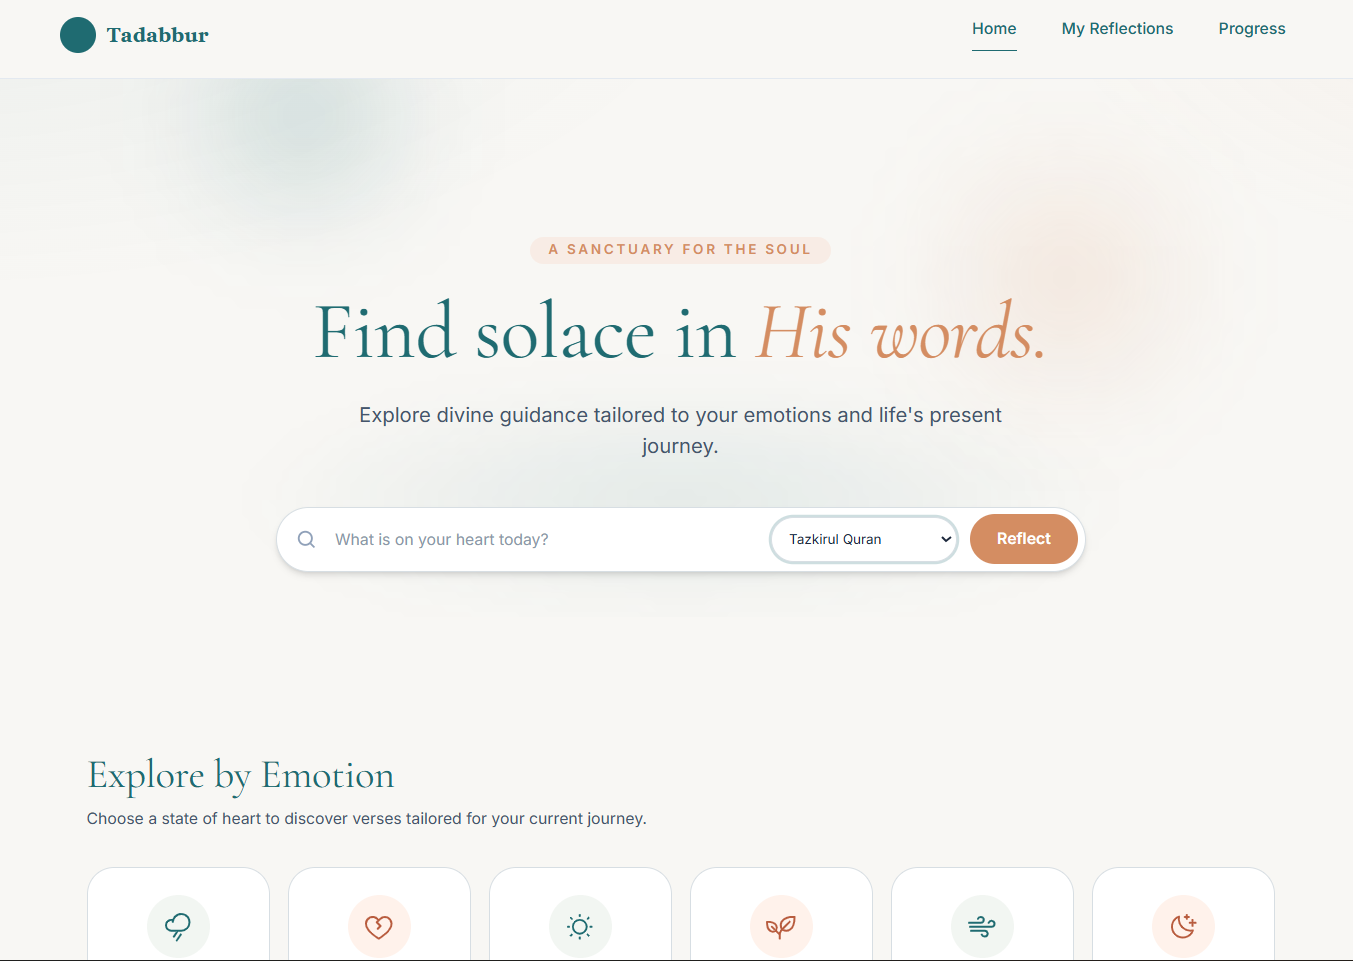
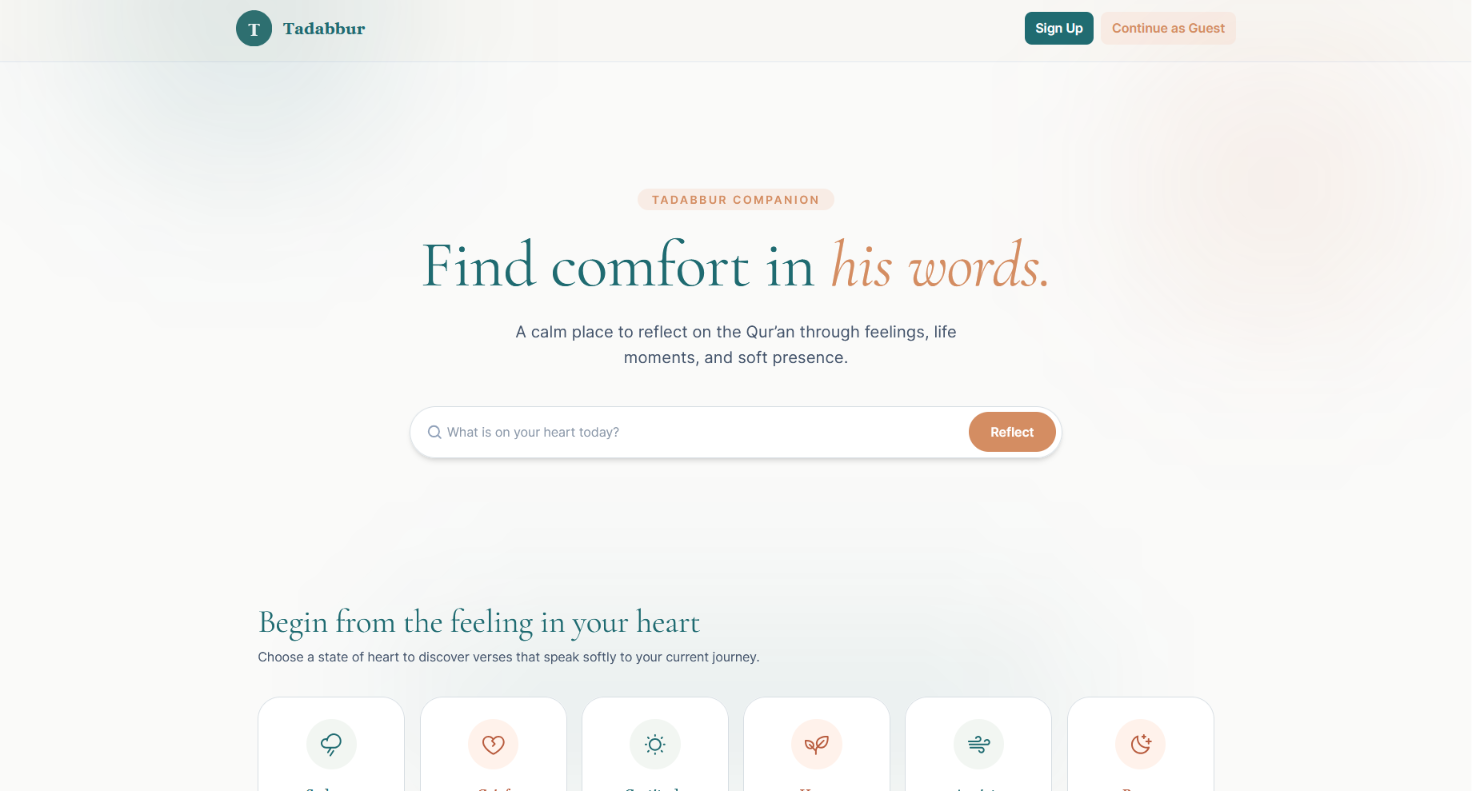
update readme

diff --git a/components/AuthProvider.js b/components/AuthProvider.js
@@ -392,13 +392,13 @@ export function AuthProvider({ children }) {
 
     if (user.kind === "guest") return;
 
-    const response = await fetch("/api/streak", { method: "POST" });
+    const response = await fetch("/api/streaks", { method: "POST" });
 
     if (response.ok) {
 
       const data = await response.json();
 
-      setStreak(data.streak);
+      setStreak(data);
 
     }
 
@@ -446,7 +446,7 @@ export function AuthProvider({ children }) {
 
     authClientLog("logout.start");
 
-    const wasRegistered = user?.kind !== "guest";
+    const wasRegistered = user && user.kind !== "guest";
 
     clearGuestStorage();
     invalidateSessionCache();

diff --git a/lib/qf/streaks.js b/lib/qf/streaks.js
@@ -76,7 +76,11 @@ export async function getStreakWithFallback({ appUserId } = {}) {
           return normalized;
         }
       }
-      streakLog("streak.fetch.qf_failed", { appUserId, status: response.status });
+      const errorText = await response.text();
+      streakLog("streak.fetch.qf_failed", {
+        status: response.status,
+        body: errorText
+      });
     } catch (err) {
       streakLog("streak.fetch.qf_error", { appUserId, message: String(err?.message || err) });
     }

diff --git a/components/AyahTafseerBlock.js b/components/AyahTafseerBlock.js
@@ -19,7 +19,7 @@ export default function AyahTafseerBlock({ tafseer, className = "" }) {
        
       </div>
       {showTafseer && text ? (
-        <div className="mt-6 rounded-xl border border-green-300 bg-green-50/80 px-4 py-3">
+        <div className="mt-6 rounded-xl border border-green-300 bg-green-50/70 px-4 py-3">
           <p className="text-xs font-semibold uppercase tracking-wide text-green-700">Tafsir</p>
           <p className="mt-2 text-xs text-green-700">
             Source: {getTafseerSourceMeta(tafseerSource).label}

diff --git a/app/api/streaks/route.js b/app/api/streaks/route.js
@@ -31,6 +31,7 @@ export async function GET(request) {
     return NextResponse.json(streak);
   } catch (error) {
     console.error(JSON.stringify({ event: "streak.fetch.error", message: String(error?.message || error) }));
+    console.log(await res.text());
     return NextResponse.json({ currentStreak: 0, longestStreak: 0, source: "error" });
   }
 }

diff --git a/README.md b/README.md
@@ -4,9 +4,11 @@
 [![React](https://img.shields.io/badge/React-19.0.0-blue)](https://reactjs.org/)
 [![Tailwind CSS](https://img.shields.io/badge/Tailwind_CSS-4.0-38B2AC)](https://tailwindcss.com/)
 [![License](https://img.shields.io/badge/License-MIT-green.svg)](LICENSE)
-[Live Link](https://tadabbur-reflect.vercel.app/)
 
 A modern, interactive web application that empowers Muslims to deepen their connection with the Quran through guided reflection, personalized insights, and progress tracking.
+
+You can try the app here: [Live Link](https://tadabbur-reflect.vercel.app/)
+
 
 ## 🌟 Problem Statement
 
@@ -22,6 +24,7 @@ Tadabbur provides a seamless platform for Quran reflection with:
 - **Rich Reflection Editor**: Live markdown preview for thoughtful journaling
 - **Progress Tracking**: Visual dashboards to monitor spiritual growth
 - **Tafseer Integration**: Multiple scholarly sources for deeper understanding
+- **Sync with Quran Foundation**: Streaks and Reflections synced with Quran Foundation
 
 ## ✨ Key Features
 
@@ -29,22 +32,16 @@ Tadabbur provides a seamless platform for Quran reflection with:
 - Browse surahs and verses with clean, responsive design
 - Audio recitation integration for immersive experience
 - Multiple tafseer sources for comprehensive understanding
+- Sync reflections with **Quran Foundation**
 
 ### ✍️ Rich Reflection Editor
 - Live markdown preview while writing
 - Tag system for organizing reflections by themes
 - Timestamped entries for tracking spiritual journey
 
-### 🎯 Personalized Recommendations
-- Emotion-based verse search using natural language processing
-- Smart suggestions based on reflection history
-- Thematic exploration through reflection tags
-
 ### 📊 Progress Analytics
-- Visual progress tracking across surahs and verses
-- Achievement system for milestones
 - Statistics dashboard for reflection patterns
-- **Quran Foundation User API Integration**: Streak tracking with future sync capabilities (demo placeholder)
+- **Quran Foundation User API Integration**: Streak tracking with sync capabilities
 
 ### 🔐 Secure Authentication
 - OAuth integration with Quran Foundation API (partially implemented)